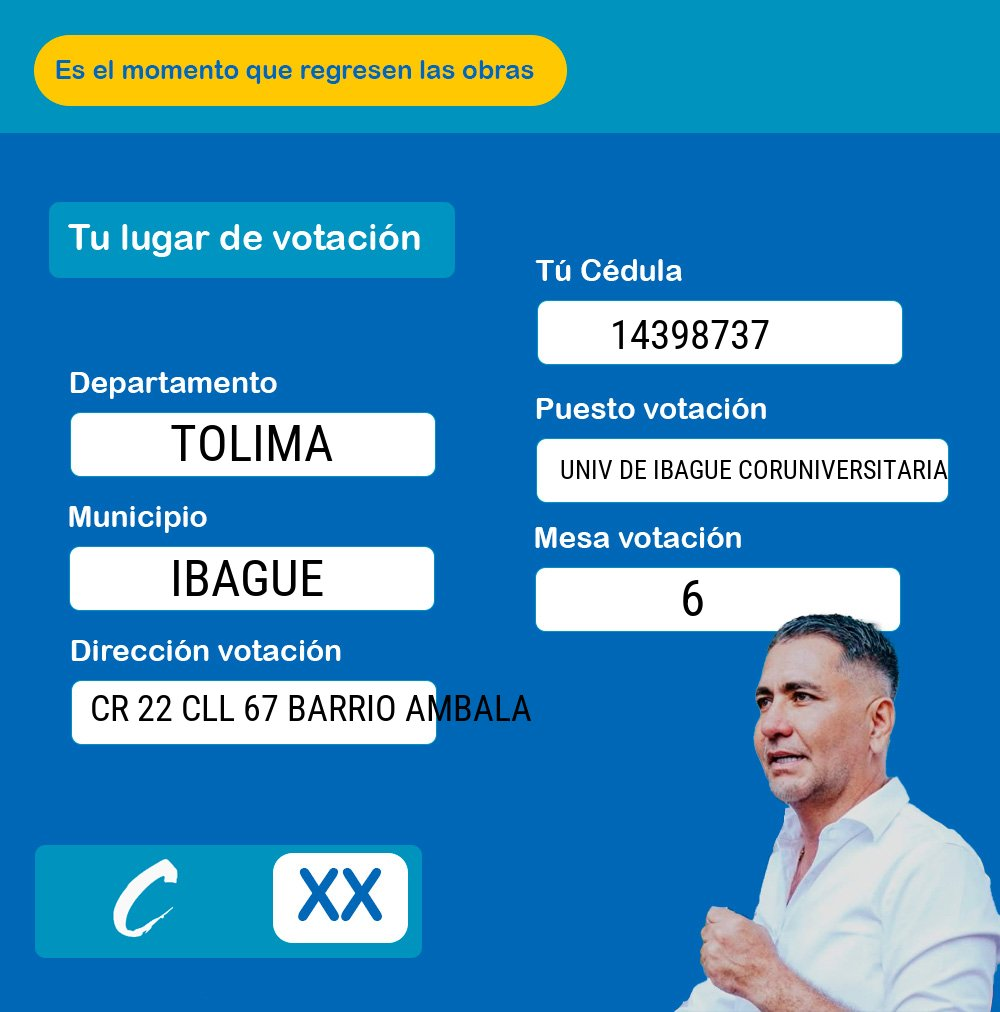
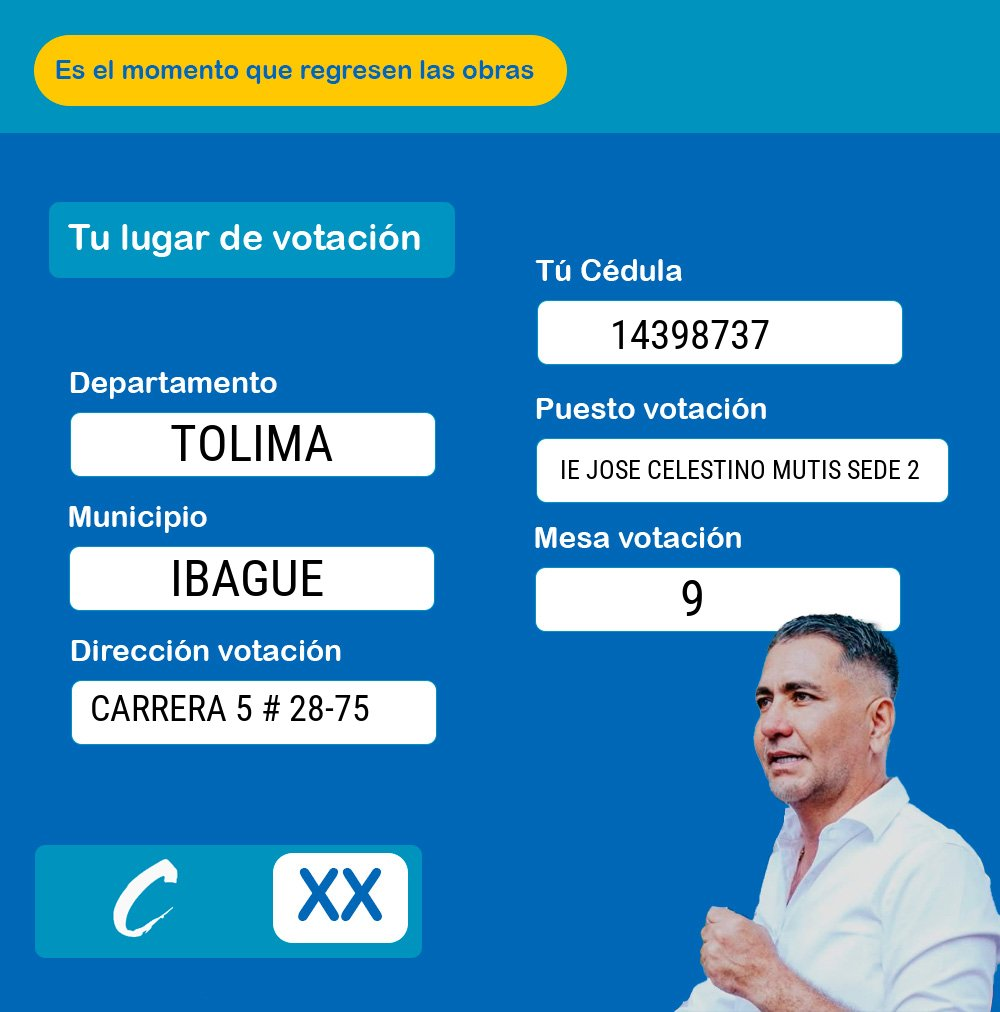
update

Changed region(s): [[0.093, 0.6739, 0.527, 0.7352], [0.558, 0.4289, 0.961, 0.4901], [0.682, 0.582, 0.713, 0.6126]]

diff --git a/app/Http/Controllers/Api/V1/VotingPlaceController.php b/app/Http/Controllers/Api/V1/VotingPlaceController.php
@@ -180,6 +180,7 @@ class VotingPlaceController extends Controller
                 'ciudad' => strtoupper($voter->municipio_votacion),
                 'puesto' => strtoupper($voter->puesto_votacion),
                 'mesa' => $voter->mesa_votacion,
+                'direccion' => $voter->direccion_votacion ?? '',
             ];
 
             $success = $this->imageService->sendVotingPlaceImageWhatsApp(

diff --git a/test-voting-direct.php b/test-voting-direct.php
@@ -52,7 +52,6 @@ try {
     echo "[1] Generating image...\n";
     $imageUrl = $imageService->generateVotingPlaceImage($cedula, $votingData);
     echo "✓ Image generated: {$imageUrl}\n\n";
-    exit;
     echo "[2] Sending via WhatsApp to {$phone}...\n";
     $success = $imageService->sendVotingPlaceImageWhatsApp(
         $phone,
